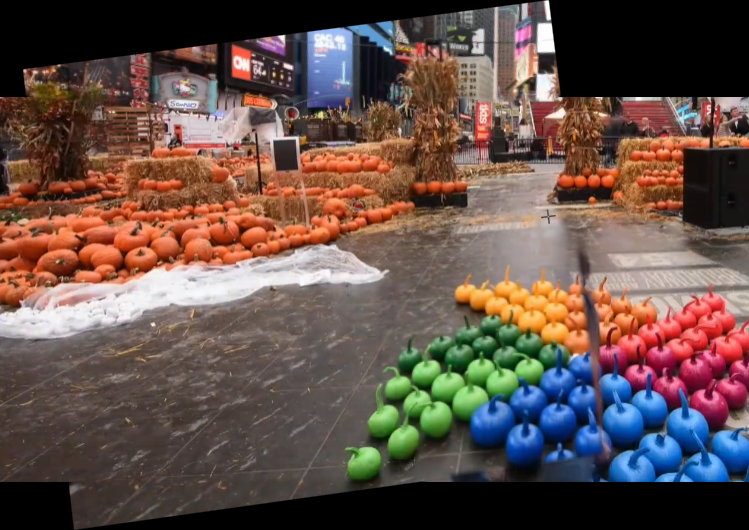
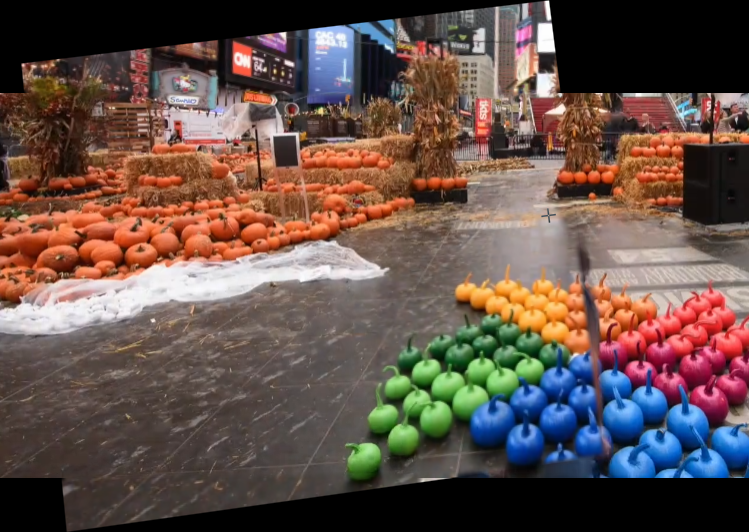
working on task 2 first mid output, docs say dedode + lightglue is better and ofc it'll work use sitching maybe impl gradient stitching or smt

diff --git a/stitching.py b/stitching.py
@@ -10,6 +10,8 @@ import collections
 import torch
 import kornia as K
 from typing import Dict
+
+from multi_img_output import better_show
 from utils import show_image
 
 '''
@@ -115,7 +117,7 @@ def stitch_background(imgs: Dict[str, torch.Tensor]):
     T = torch.tensor([[1, 0, -minx],[0, 1 ,-miny],[0, 0, 1]], dtype=torch.float32)
     H = (T @ homo[0]).unsqueeze(0)
 
-    print(H, minx, miny, maxx, maxy, width, height)
+    # print(H, minx, miny, maxx, maxy, width, height)
     if variant:
         src_img = K.geometry.warp_perspective(t1_1, H, outs, padding_mode=p, align_corners=align_corners, mode=m) # change mode
         src_mask = K.geometry.warp_perspective(torch.ones_like(t1_1), H, outs, padding_mode=p, align_corners=align_corners, mode=m) # change mode
@@ -213,26 +215,28 @@ def panorama(imgs: Dict[str, torch.Tensor]):
     Args:
         imgs: dict {filename: CxHxW tensor} for task-2.
     Returns:
-        img: panorama, 
-        overlap: torch.Tensor of the output image. 
+        img: panorama,
+        overlap: torch.Tensor of the output image.
     """
     img = torch.zeros((3, 256, 256), dtype=torch.uint8) # assumed 256*256 resolution. Update this as per your logic.
     overlap = torch.empty((3, 256, 256), dtype=torch.uint8) # assumed empty 256*256 overlap. Update this as per your logic.
 
     #TODO: Add your code here. Do not modify the return and input arguments.
-    save = False
+    save = True
     load = True
     data = {}
+    for k, v in imgs.items():
+        v = v / 255
+        if v.ndim == 3:
+            v = v.unsqueeze(0)
+        imgs[k] = v
+    keys = list(imgs.keys())
+
     if save or not load:
         dedode = K.feature.DeDoDe.from_pretrained(detector_weights="L-C4-v2", descriptor_weights="B-upright")
         lg = K.feature.LightGlue("disk").eval()
 
         for k, v in imgs.items():
-            v = v/255
-
-            if v.ndim == 3:
-                v = v.unsqueeze(0)
-            imgs[k] = v
             keypoints, scores, descriptors = dedode(v, apply_imagenet_normalization=True)
             data[k] = {
                 "dedode": (keypoints, scores, descriptors),
@@ -240,10 +244,13 @@ def panorama(imgs: Dict[str, torch.Tensor]):
             }
         print("descriptors done")
         matcher = K.feature.match_smnn
-        keys = list(imgs.keys())
-        matchcount = [0] * len(keys)
-        loftr = K.feature.LoFTR(pretrained='outdoor')
-        ransac = K.geometry.RANSAC()
+        loftr = K.feature.LoFTR(pretrained='indoor_new')
+        # RANSAC params
+        inl_th = 1.5
+        max_iter = 50
+        confidence = 0.999
+        max_lo_iters = 15
+        ransac = K.geometry.RANSAC("homography", inl_th, max_iter, max_lo_iters, confidence)
         for i in range(len(keys)):
             for j in range(i + 1, len(keys)):
                 k1 = keys[i]
@@ -263,7 +270,14 @@ def panorama(imgs: Dict[str, torch.Tensor]):
                     }
                     points = loftr(inputdict)
                     homo = ransac(points["keypoints0"], points["keypoints1"])
-                    data[k1][k2] = homo[0]
+
+                    # print(k1, k2)
+                    # prints:
+                    # t2_1.png t2_2.png
+                    # t2_1.png t2_4.png
+                    # t2_2.png t2_3.png
+                    # t2_2.png t2_4.png
+                    data[k1][k2] = torch.linalg.inv(homo[0])
                     data[k2][k1] = homo[0]
 
         torch.save(data, 'data/data.pth')
@@ -273,36 +287,69 @@ def panorama(imgs: Dict[str, torch.Tensor]):
         data = torch.load('data/data.pth')
 
     ref = max(data, key=lambda x: data[x]["matches"])
+
     #bfs
     Q = collections.deque()
     visited = set()
-
+    qlog = [ref]
     visited.add(ref)
     Q.append(ref)
-    homos = {ref: torch.eye(3)}
+    Hs = {ref: torch.eye(3)}
     while Q:
         cur = Q.popleft()
+        print(cur, data[cur].keys())
         for k, v in data[cur].items(): # neighbors but skip the 2 keys and visited checks
             if k == "matches" or k == "dedode" or k in visited:
                 continue
 
             Q.append(k)
             visited.add(k)
-
+            qlog.append(k)
             # compute transformations of neighbor to cur
-            homo = homos[cur] @ data[cur][k]
-            homos[k] = homo
+            homo = Hs[cur] @ data[cur][k]
+            Hs[k] = homo
+    # print(qlog)
+    print("BFS done")
+    x = [0]
+    y = [0]
+    for k, v in imgs.items():
+        shp = v.shape
+        H = Hs[k]
+        tl, tr = (0, 0), (shp[3], 0)
+        bl, br = (0, shp[2]), (shp[3], shp[2])
+        points = (tl, tr, bl, br)
+        t = transform(points, H)
+        tl_prim, tr_prim, bl_prim, br_prim = t[0], t[1], t[2], t[3] #_prim 0 is x, 1 is y
+        x.extend([tl_prim[0], tr_prim[0], bl_prim[0], br_prim[0]])
+        y.extend([tl_prim[1], tr_prim[1], bl_prim[1], br_prim[1]])
+    print("warping...")
+    x_max, y_max = max(x), max(y)
+    x_min, y_min = min(x), min(y)
+    width = x_max-x_min
+    height = y_max-y_min
+    outs = (height, width)
+    final = torch.zeros(outs)
+    # homo needs transform
+    T = torch.tensor([[1, 0, -x_min],[0, 1 ,-y_min],[0, 0, 1]], dtype=torch.float32)
+    out = []
+    for k in keys:
+        H = Hs[k]
+        H = (T @ H).unsqueeze(0)
+        src_img = K.geometry.warp_perspective(imgs[k], H, outs)
+        src_mask = K.geometry.warp_perspective(torch.ones_like(imgs[k]), H, outs)
+        data[k] = {
+            "warped": src_img,
+            "mask": src_mask
+        }
+        out.append(src_img)
+        final = torch.where(src_mask == 1, src_img, final)
+        # better_show(final)
 
+    img = ready(final)
 
+    # H = (T @ homo[0]).unsqueeze(0)
+    # src_img = K.geometry.warp_perspective(t1_1, H, outs)  # change mode
+    # src_mask = K.geometry.warp_perspective(torch.ones_like(t1_1))
 
-
-    #
-    # shp = imgs[ref].shape
-    # print(shp)
-    # tl, tr = (0, 0), (shp[3], 0)
-    # bl, br = (0, shp[2]), (shp[3], shp[2])
-    # points = (tl, tr, bl, br)
-    # t = transform(points, homo[0])
-    # tl_prim, tr_prim, bl_prim, br_prim = t[0], t[1], t[2], t[3]
 
     return img, overlap
